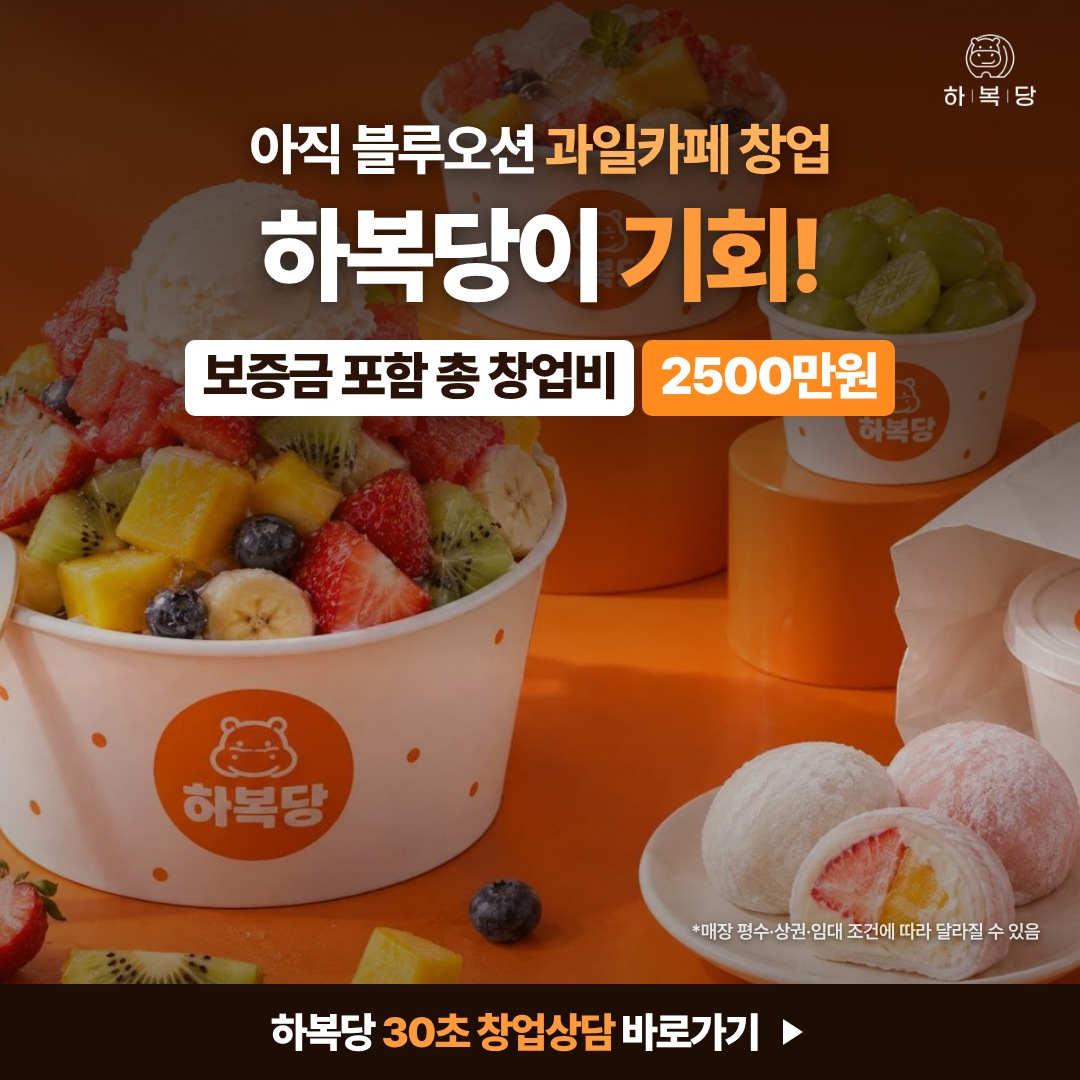
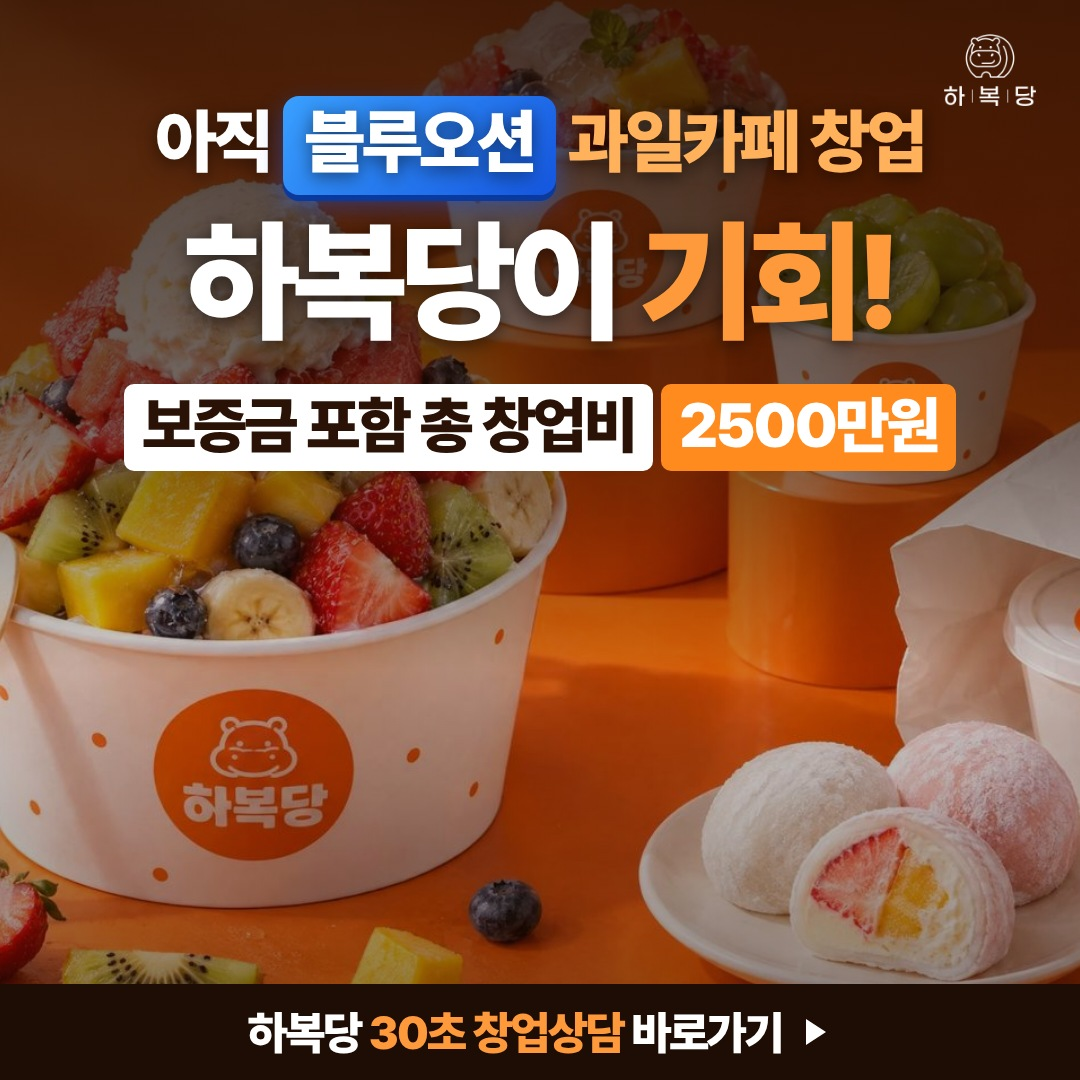
Emphasize 블루오션, enlarge text and drop the footnote on the opportunity ad
Claude-Session: https://claude.ai/code/session_0179R8Fgvuzrn575bSfJcdRk

Changed region(s): [[0.0917, 0.0611, 0.8861, 0.4583], [0.2139, 0.9167, 0.7639, 0.9778], [0.6417, 0.8556, 0.9778, 0.8861]]

diff --git a/ads_meta/make_ref3.py b/ads_meta/make_ref3.py
@@ -29,18 +29,18 @@ body{background:#140A05}
 R1 = make_switch.BASE(1080) + CSS + f'''<style>
 .bg1{{background:url('{HERO}') 50% 60%/auto 1180px no-repeat;filter:saturate(1.05)}}
 .dim1{{background:linear-gradient(rgba(30,12,4,.82) 0%,rgba(30,12,4,.62) 38%,rgba(30,12,4,.2) 62%,rgba(30,12,4,.55) 100%)}}
+.blue{{display:inline-block;padding:0 22px 8px;border-radius:16px;background:linear-gradient(135deg,#3AA0FF,#1556E0);color:#fff;box-shadow:0 6px 0 #0B3A9E,0 10px 26px rgba(20,90,255,.45)}}
 .box{{display:inline-block;padding:6px 18px 10px;margin:0 4px;border-radius:10px;background:#fff;color:#2A1206;font-size:52px;font-weight:900;letter-spacing:-.04em;line-height:1.15}}
 .box.o{{background:#FF8A1E;color:#fff}}
 .cbar{{left:0;right:0;top:984px;height:96px;background:#1E0D05;display:flex;align-items:center;justify-content:center;gap:16px}}
-.cbar span{{font-size:42px;font-weight:900;letter-spacing:-.045em;color:#fff}}
+.cbar span{{font-size:46px;font-weight:900;letter-spacing:-.045em;color:#fff}}
 .cbar b{{color:#FF9A3C}}
 </style>
 <div class="a ph bg1"></div><div class="a ph dim1"></div>
 <img class="a" src="{LOGO_W}" style="right:44px;top:34px;width:92px">
-<div class="a t k" style="top:118px;font-size:56px;font-weight:800">아직 블루오션 <span style="color:#FFB15C">과일카페 창업</span></div>
-<div class="a t k" style="top:196px;font-size:104px">하복당이 <span style="color:#FF9A3C">기회!</span></div>
-<div class="a k" style="left:0;right:0;top:340px;text-align:center"><span class="box">보증금 포함 총 창업비</span><span class="box o">2500만원</span></div>
-<div class="a fn k" style="right:40px;top:918px;text-align:right">*매장 평수·상권·임대 조건에 따라 달라질 수 있음</div>
+<div class="a t k" style="top:96px;font-size:70px;font-weight:900;line-height:1.3">아직 <span class="blue">블루오션</span> <span style="color:#FFB15C">과일카페 창업</span></div>
+<div class="a t k" style="top:206px;font-size:132px">하복당이 <span style="color:#FF9A3C">기회!</span></div>
+<div class="a k" style="left:0;right:0;top:384px;text-align:center"><span class="box" style="font-size:62px">보증금 포함 총 창업비</span><span class="box o" style="font-size:62px">2500만원</span></div>
 <div class="a cbar k"><span>하복당 <b>30초 창업상담</b> 바로가기</span>
 <svg width="34" height="34" viewBox="0 0 34 34"><path d="M8 4 L28 17 L8 30 Z" fill="#fff"/></svg></div>'''
 
